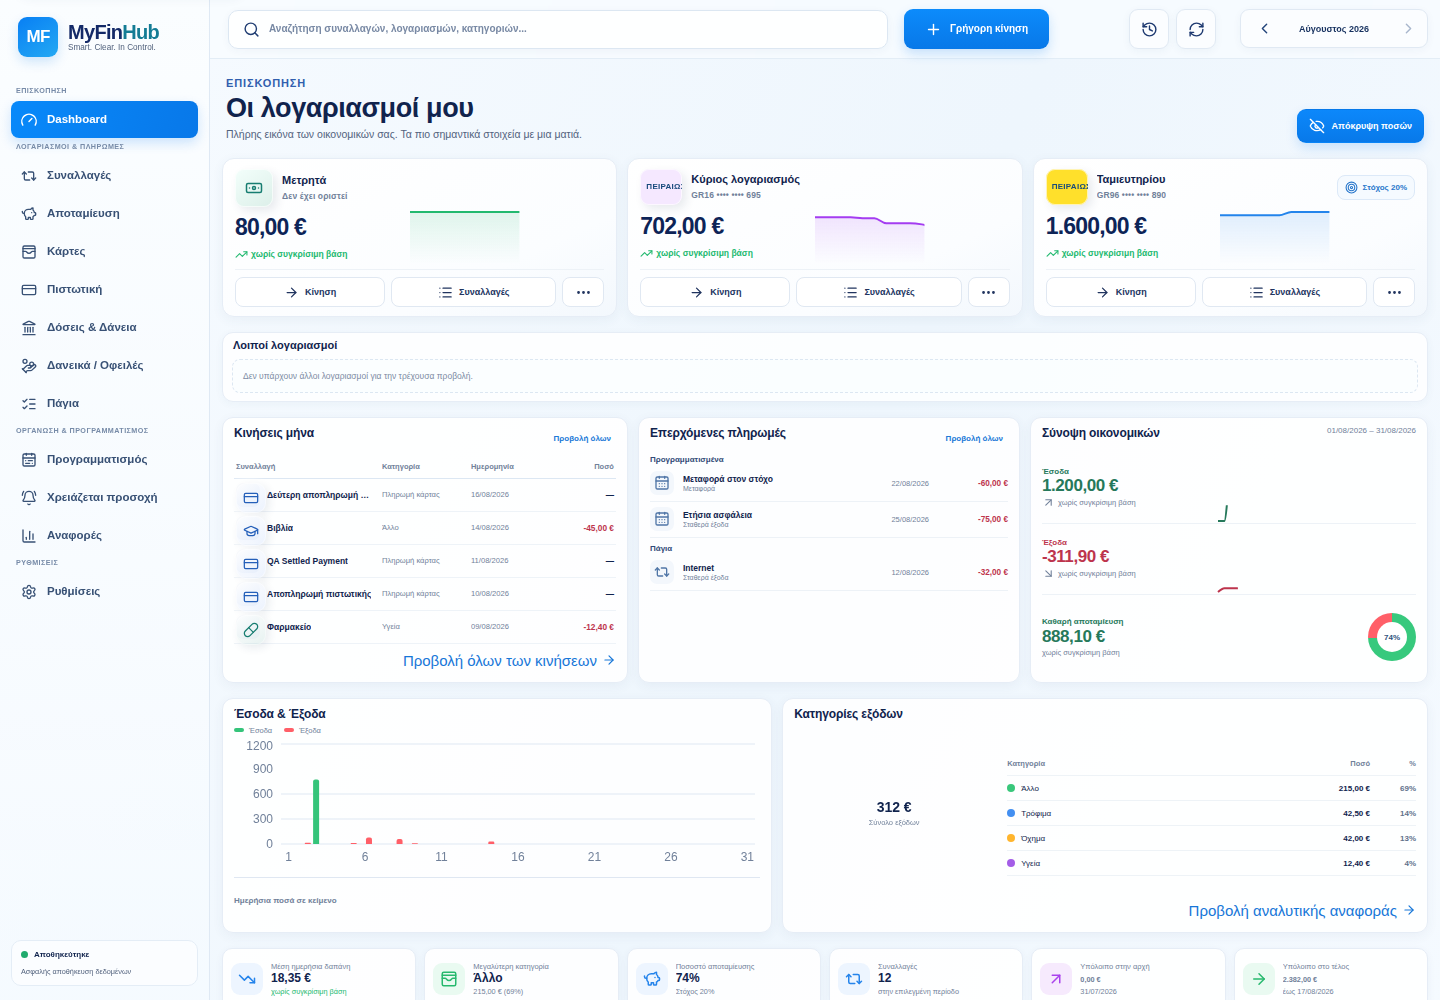
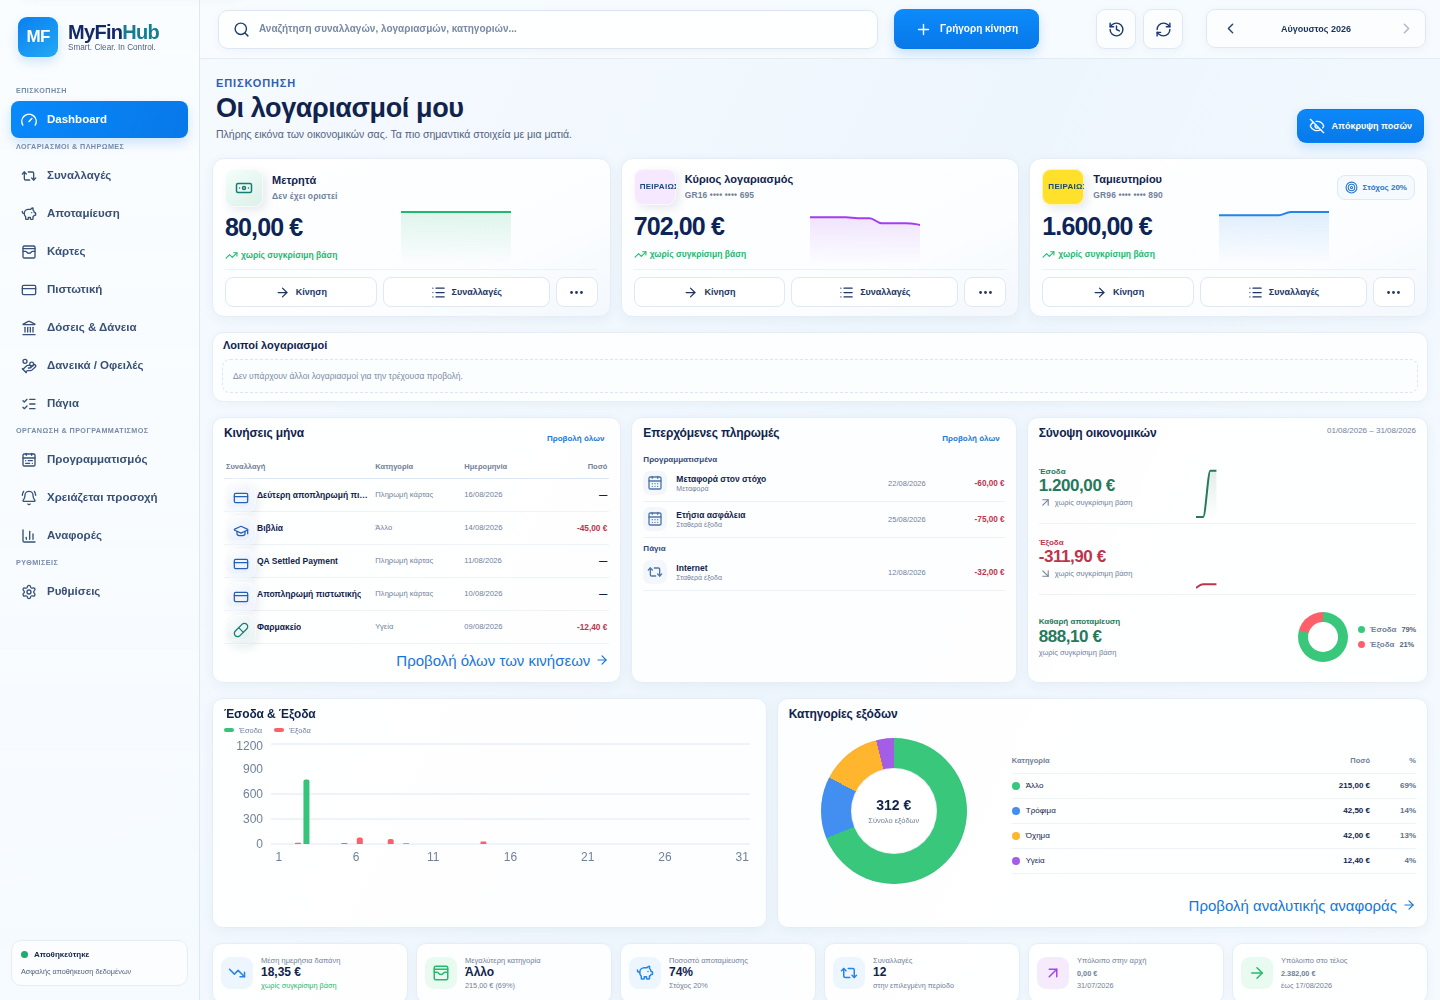
fix(dashboard): tighten approved-target fidelity (#298) [skip ci]

diff --git a/src/pages/DashboardPage.tsx b/src/pages/DashboardPage.tsx
@@ -22,11 +22,8 @@ import {
   Bar,
   BarChart,
   CartesianGrid,
-  Cell,
   Line,
   LineChart,
-  Pie,
-  PieChart,
   ResponsiveContainer,
   Tooltip,
   XAxis,
@@ -58,6 +55,18 @@ import '../styles/part48.css';
 
 const PRIMARY_ACCOUNTS=['cash','piraeus-payroll','piraeus-savings'];
 const chartColors = ['#39c77b', '#438ff1', '#ffb52e', '#a45de7', '#d95cc5', '#98a5b7'];
+
+function conicSegments(rows: { value: number }[], total: number) {
+  if (!rows.length || total <= 0) return 'conic-gradient(#e6edf6 0 100%)';
+  let cursor = 0;
+  const parts = rows.map((row, index) => {
+    const start = cursor;
+    cursor = Math.min(100, cursor + (row.value / total) * 100);
+    return `${chartColors[index % chartColors.length]} ${start.toFixed(2)}% ${cursor.toFixed(2)}%`;
+  });
+  if (cursor < 100) parts.push(`#e6edf6 ${cursor.toFixed(2)}% 100%`);
+  return `conic-gradient(${parts.join(', ')})`;
+}
 
 type DashboardProps = {
   data: FinanceData;
@@ -287,6 +296,9 @@ export function DashboardPage({
   const endTotal = accounts.reduce((sum, account) => sum + (balances[account.id] ?? 0), 0);
   const topCategory = categories[0];
   const topCategoryShare = flow.expense > 0 && topCategory ? topCategory.value / flow.expense : 0;
+  const flowVolume = flow.income + flow.expense;
+  const incomeShare = flowVolume > 0 ? flow.income / flowVolume : 0;
+  const categoryGradient = conicSegments(categories, flow.expense);
 
   return (
     <div className="page-stack dashboard-target">
@@ -489,7 +501,9 @@ export function DashboardPage({
             <div><span>Έσοδα</span><b>{money.format(flow.income)}</b><small><ArrowUpRight size={13} /> {trendCopy(incomeChange)}</small></div>
             <div className="dashboard-summary-spark" aria-hidden="true">
               <ResponsiveContainer width="100%" height={60}>
-                <LineChart data={cumulative}><Line type="monotone" dataKey="income" stroke="currentColor" strokeWidth={2} dot={false} isAnimationActive={!reduce} /></LineChart>
+                <AreaChart data={cumulative}>
+                  <defs><linearGradient id="summary-income-fill" x1="0" y1="0" x2="0" y2="1"><stop offset="0%" stopColor="currentColor" stopOpacity=".22"/><stop offset="100%" stopColor="currentColor" stopOpacity="0"/></linearGradient></defs>
+                  <YAxis hide domain={[0, (max: number) => Math.max(1, max * 1.08)]}/><Area type="monotone" dataKey="income" stroke="currentColor" strokeWidth={2} fill="url(#summary-income-fill)" dot={false} isAnimationActive={!reduce}/></AreaChart>
               </ResponsiveContainer>
             </div>
           </div>
@@ -497,7 +511,9 @@ export function DashboardPage({
             <div><span>Έξοδα</span><b>{money.format(-flow.expense)}</b><small><ArrowDownRight size={13} /> {trendCopy(expenseChange)}</small></div>
             <div className="dashboard-summary-spark" aria-hidden="true">
               <ResponsiveContainer width="100%" height={60}>
-                <LineChart data={cumulative}><Line type="monotone" dataKey="expense" stroke="currentColor" strokeWidth={2} dot={false} isAnimationActive={!reduce} /></LineChart>
+                <AreaChart data={cumulative}>
+                  <defs><linearGradient id="summary-expense-fill" x1="0" y1="0" x2="0" y2="1"><stop offset="0%" stopColor="currentColor" stopOpacity=".2"/><stop offset="100%" stopColor="currentColor" stopOpacity="0"/></linearGradient></defs>
+                  <YAxis hide domain={[0, (max: number) => Math.max(1, max * 1.08)]}/><Area type="monotone" dataKey="expense" stroke="currentColor" strokeWidth={2} fill="url(#summary-expense-fill)" dot={false} isAnimationActive={!reduce}/></AreaChart>
               </ResponsiveContainer>
             </div>
           </div>
@@ -507,8 +523,9 @@ export function DashboardPage({
               <b>{money.format(net)}</b>
               <small>{trendCopy(netChange)}</small>
             </div>
-            <div className="dashboard-save-ring" style={{ '--saving-rate': `${Math.max(0, Math.min(100, saveRate * 100)) * 3.6}deg` } as CSSProperties}>
-              <span>{Math.round(saveRate * 100)}%</span>
+            <div className="dashboard-summary-composition">
+              <div className="dashboard-summary-donut" style={{ '--income-share': `${Math.max(0, Math.min(1, incomeShare)) * 360}deg` } as CSSProperties}><span className="sr-only">Έσοδα {Math.round(incomeShare * 100)}%, έξοδα {Math.round((1 - incomeShare) * 100)}%</span></div>
+              <div className="dashboard-summary-legend"><span className="income">Έσοδα <b>{Math.round(incomeShare * 100)}%</b></span><span className="expense">Έξοδα <b>{Math.round((1 - incomeShare) * 100)}%</b></span></div>
             </div>
           </div>
         </article>
@@ -555,14 +572,7 @@ export function DashboardPage({
           {categories.length ? (
             <div className="dashboard-category-layout">
               <div className="dashboard-donut-wrap" aria-hidden="true">
-                <ResponsiveContainer width="100%" height={160}>
-                  <PieChart>
-                    <Pie data={categories} dataKey="value" nameKey="name" innerRadius={50} outerRadius={73} paddingAngle={1.5} isAnimationActive={!reduce}>
-                      {categories.map((_, index) => <Cell key={index} fill={chartColors[index % chartColors.length]} />)}
-                    </Pie>
-                    <Tooltip formatter={(value) => money.format(Number(value))} />
-                  </PieChart>
-                </ResponsiveContainer>
+                <div className="dashboard-category-donut" style={{ background: categoryGradient }} />
                 <div><b>{compactMoney.format(flow.expense)}</b><span>Σύνολο εξόδων</span></div>
               </div>
               <div className="dashboard-category-table">

diff --git a/src/styles/part48.css b/src/styles/part48.css
@@ -370,3 +370,32 @@
   .dashboard-donut-wrap{height:160px}
   .dashboard-kpi-grid article{min-height:62px;padding:7px 8px}
 }
+
+
+/* issue-298-reference-alignment-v4 */
+@media(min-width:1180px){
+  .app-shell:has(.dashboard-target){--dashboard-sidebar:200px}
+  .app-shell:has(.dashboard-target) .top-actions{margin-right:238px}
+  .app-shell:has(.dashboard-target) .period-row{right:14px;width:220px}
+  .dashboard-account-balance .animated-amount{font-size:25px}
+  .dashboard-summary-row{grid-template-columns:minmax(110px,.78fr) 1.22fr}
+  .dashboard-summary-spark{height:52px}
+  .dashboard-net-row{grid-template-columns:minmax(120px,.8fr) 1.2fr}
+  .dashboard-summary-composition{display:flex;align-items:center;justify-content:flex-end;gap:10px;min-width:0}
+  .dashboard-summary-donut{--income-share:0deg;width:50px;height:50px;flex:0 0 50px;border-radius:50%;position:relative;background:conic-gradient(#39c77b 0 var(--income-share),#ff5f68 var(--income-share) 360deg)}
+  .dashboard-summary-donut::after{content:"";position:absolute;inset:10px;border-radius:50%;background:#fff}
+  .dashboard-summary-legend{display:grid;gap:6px;font-size:7.4px;color:#71819a;white-space:nowrap}
+  .dashboard-summary-legend span{display:flex;align-items:center;gap:5px;color:#71819a;font-weight:650}
+  .dashboard-summary-legend span::before{content:"";width:7px;height:7px;border-radius:50%;background:#39c77b}
+  .dashboard-summary-legend .expense::before{background:#ff5f68}
+  .dashboard-summary-legend b{color:#54647d;font-size:7.5px}
+  .dashboard-category-layout{grid-template-columns:210px minmax(0,1fr)}
+  .dashboard-donut-wrap{height:155px;display:grid;place-items:center}
+  .dashboard-category-donut{width:146px;height:146px;border-radius:50%;position:relative;box-shadow:inset 0 0 0 1px rgba(22,48,85,.03)}
+  .dashboard-category-donut::after{content:"";position:absolute;inset:31px;border-radius:50%;background:#fff;box-shadow:0 0 0 1px #edf2f7}
+  .dashboard-donut-wrap>div:last-child{z-index:2}
+  .dashboard-flow-panel{position:relative;min-height:190px}
+  .dashboard-flow-panel .chart-alt{position:absolute!important;width:1px!important;height:1px!important;padding:0!important;margin:-1px!important;overflow:hidden!important;clip:rect(0,0,0,0)!important;white-space:nowrap!important;border:0!important}
+  .dashboard-analytics-grid .dashboard-panel{min-height:190px}
+  .dashboard-kpi-grid article{min-height:60px}
+}
